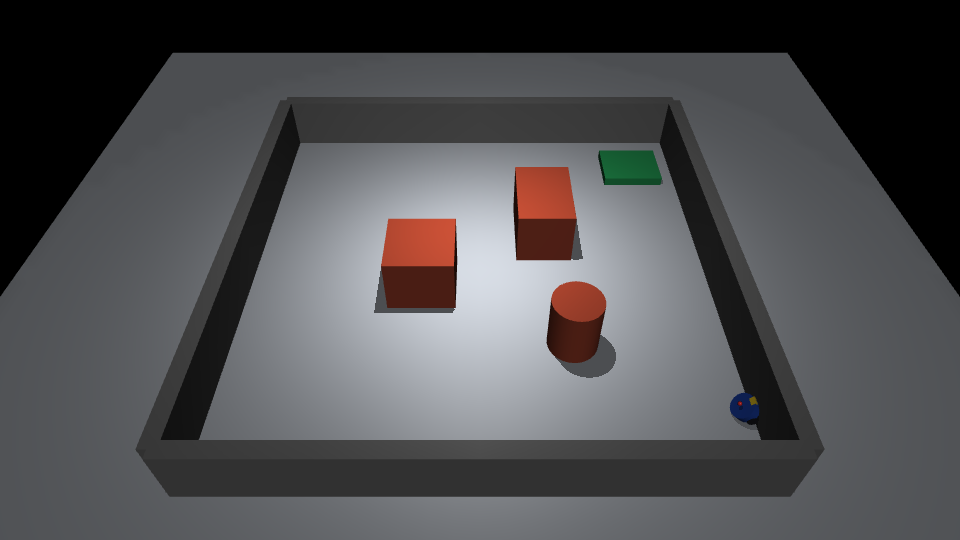
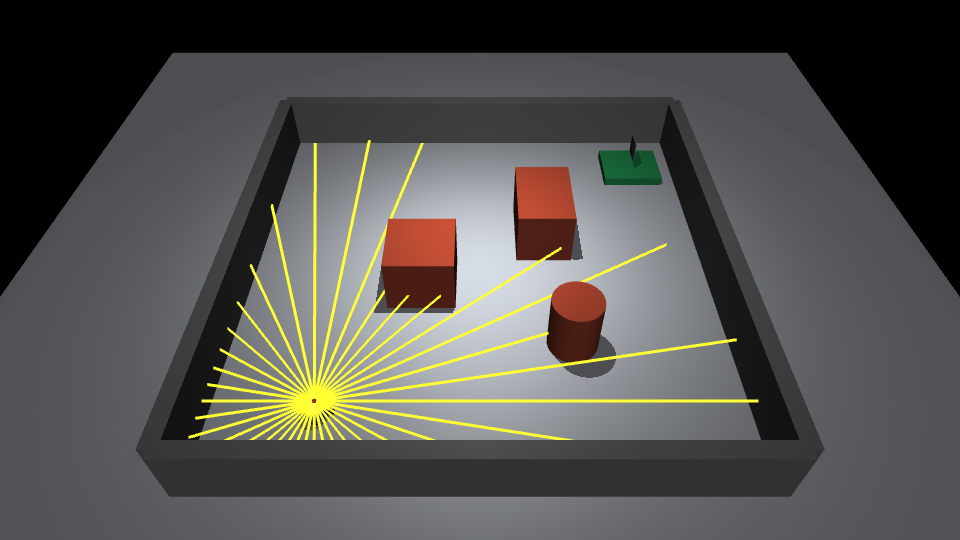
Finalise project documentation, validation results and submission

diff --git a/README.md b/README.md
@@ -1,0 +1,157 @@
+# 41014 Sensors and Control — Integrated Project
+
+## Project Overview
+
+This project implements an autonomous mobile robot navigation and docking system in MuJoCo, using a simulated TurtleBot3-style differential-drive robot.
+
+The robot navigates through an environment containing obstacles, uses wheel odometry and an Extended Kalman Filter (EKF) for localisation, monitors its surroundings with a simulated 2D LiDAR, and uses an onboard camera to detect an ArUco marker at a charging station.
+
+The system integrates navigation, sensing, localisation and feedback control into a complete autonomous docking demonstration.
+
+## Software and Technologies
+
+- Python 3.11
+- MuJoCo 3.17.0
+- NumPy
+- Matplotlib
+- OpenCV with ArUco support
+
+## System Components
+
+### 1. MuJoCo Simulation
+
+The simulation includes a TurtleBot3-style mobile robot, walls, three obstacles, a charging station and an ArUco landmark.
+
+The robot uses a simplified kinematic differential-drive model. Wheel speeds are converted into changes in robot position and orientation. The simulation is not intended to reproduce full motor torque, friction or wheel-slip dynamics.
+
+### 2. LiDAR
+
+A simulated 2D LiDAR uses 36 rangefinder measurements distributed around the robot.
+
+LiDAR measurements are used to monitor nearby obstacles and stop forward movement when an obstacle is within a specified safety threshold.
+
+### 3. Camera and ArUco Detection
+
+The onboard RGB camera detects an ArUco marker mounted at the charging station.
+
+Camera intrinsics are calculated from the simulated camera's field of view. Marker measurements are used to estimate distance and bearing.
+
+Camera detection and distance estimation were tested against known positions in the simulation.
+
+### 4. Extended Kalman Filter
+
+The EKF estimates the robot's planar state:
+
+[x, y, heading]
+
+Prediction uses differential-drive wheel odometry.
+
+Correction uses range and bearing measurements from the known ArUco landmark.
+
+The filter maintains a covariance matrix representing localisation uncertainty.
+
+### 5. Autonomous Navigation
+
+The robot follows a sequence of six waypoints through the simulated environment.
+
+A proportional feedback controller adjusts forward velocity and angular velocity using the estimated robot pose.
+
+LiDAR monitors nearby obstacles during navigation.
+
+The route is predefined rather than generated by a global path-planning algorithm.
+
+### 6. Camera-Guided Docking
+
+After reaching the final navigation waypoint, the robot aligns towards the charging station.
+
+The camera detects the ArUco marker and estimates its distance and bearing.
+
+A proportional docking controller adjusts the robot's movement until it reaches the specified stopping distance.
+
+The system stops if camera tracking is lost or a LiDAR safety threshold is exceeded.
+
+Docking represents a visual approach to the station, not physical electrical charging.
+
+## Installation
+
+Create and activate a Python virtual environment:
+
+```bash
+python3 -m venv .venv
+source .venv/bin/activate
+pip install -r requirements.txt
+```
+
+Run commands from the project root directory.
+
+## Running the Project
+
+Run the complete autonomous demonstration:
+
+```bash
+python tests/test_integrated_project.py
+```
+
+Run the individual tests:
+
+```bash
+python tests/test_ekf_mujoco.py
+python tests/test_ekf_camera.py
+python tests/test_waypoint_navigation.py
+python tests/test_docking.py
+```
+
+## Integrated Demonstration Results
+
+The successful integrated test produced:
+
+| Measurement | Result |
+|---|---|
+| Navigation waypoints | 6 / 6 |
+| Camera marker detections | 341 |
+| LiDAR safety-stop activations | 0 |
+| Final robot position | (1.328, 1.755) m |
+| Final distance to station marker | 0.574 m |
+| Docking status | DOCKED |
+
+The docking target was approximately 0.55 m from the station marker. The final simulated distance was 0.574 m, corresponding to an absolute difference of 0.024 m.
+
+The successful route did not trigger the LiDAR safety stop. This demonstrates monitoring during the run, but does not independently validate the safety-stop response under a deliberately introduced obstacle.
+
+## Results and Evidence
+
+Generated figures are saved in the `results/` directory.
+
+Important outputs include:
+
+- `integrated_trajectory.png` — complete navigation and docking trajectory
+- `waypoint_navigation.png` — waypoint navigation results
+- `docking_trajectory.png` — camera-guided docking trajectory
+- `ekf_mujoco_trajectory.png` — EKF and odometry trajectory comparison
+- `ekf_mujoco_error.png` — localisation error comparison
+- `camera_validation.png` — camera calibration validation
+
+## Limitations
+
+- The robot uses kinematic rather than full dynamic wheel control.
+- Navigation follows predefined waypoints.
+- LiDAR provides safety monitoring rather than global path planning.
+- Camera measurements depend on marker visibility and image geometry.
+- The simulated docking target does not include physical charging contacts.
+- Additional testing would be required to establish performance under sensor noise, unexpected obstacles and varying initial conditions.
+
+## Project Structure
+
+- `models/` — MuJoCo robot and environment model
+- `sensors/` — LiDAR, camera and ArUco processing
+- `estimation/` — Extended Kalman Filter
+- `control/` — navigation controller
+- `tests/` — component and integrated tests
+- `results/` — generated validation figures
+- `main.py` — differential-drive motion and simulation setup
+
+## Subject
+
+41014 Sensors and Control for Mechatronic Systems
+
+University of Technology Sydney — Spring 2026
